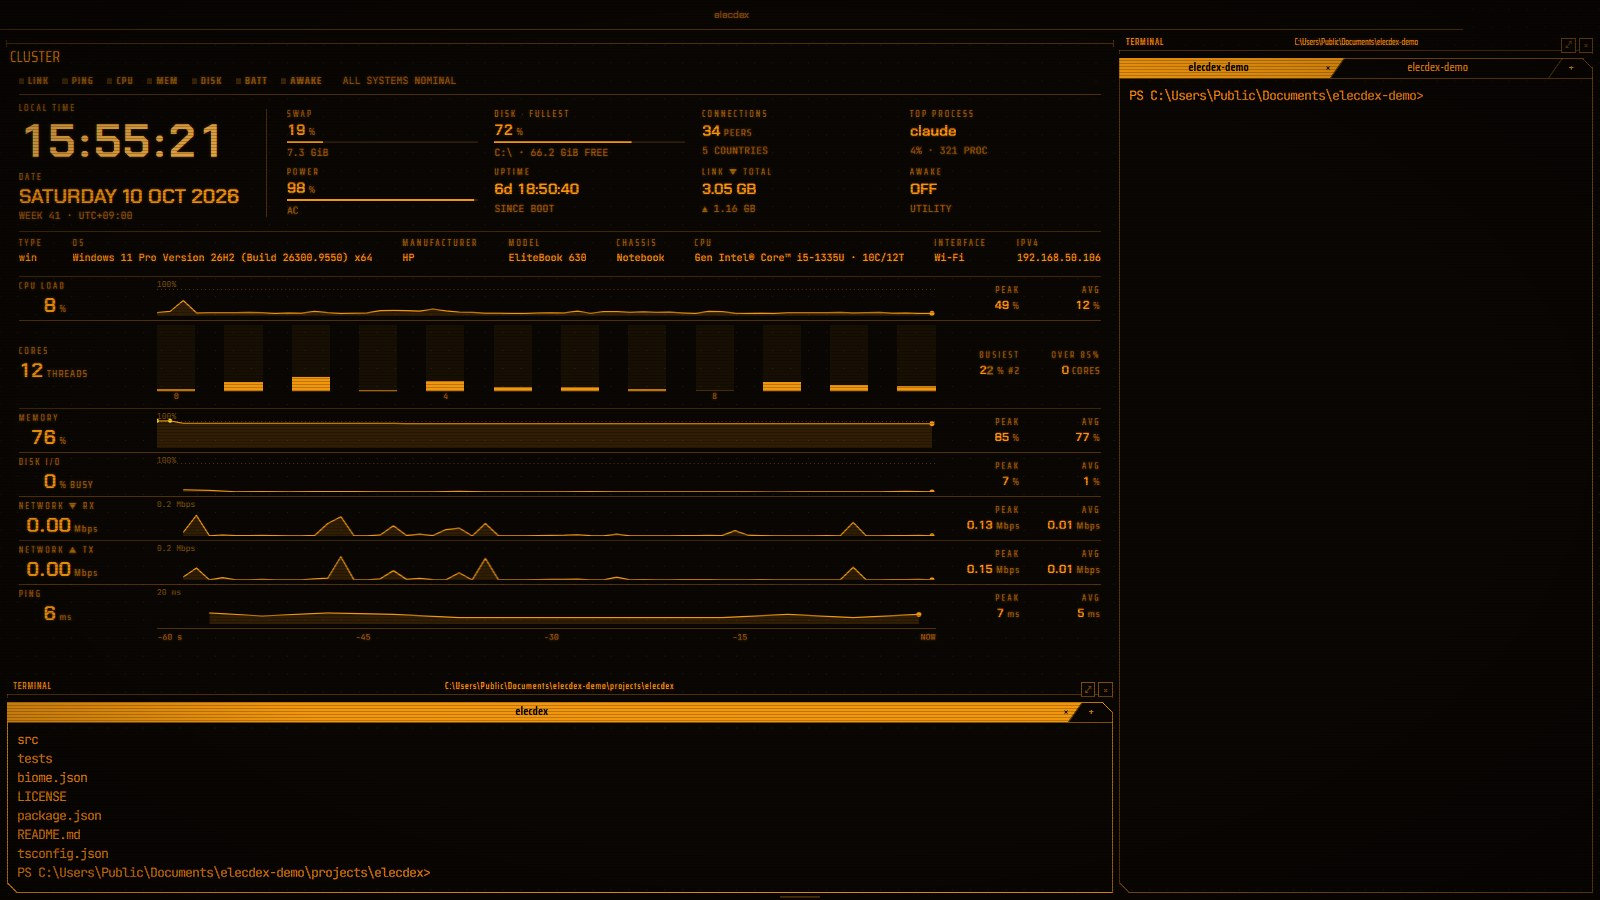
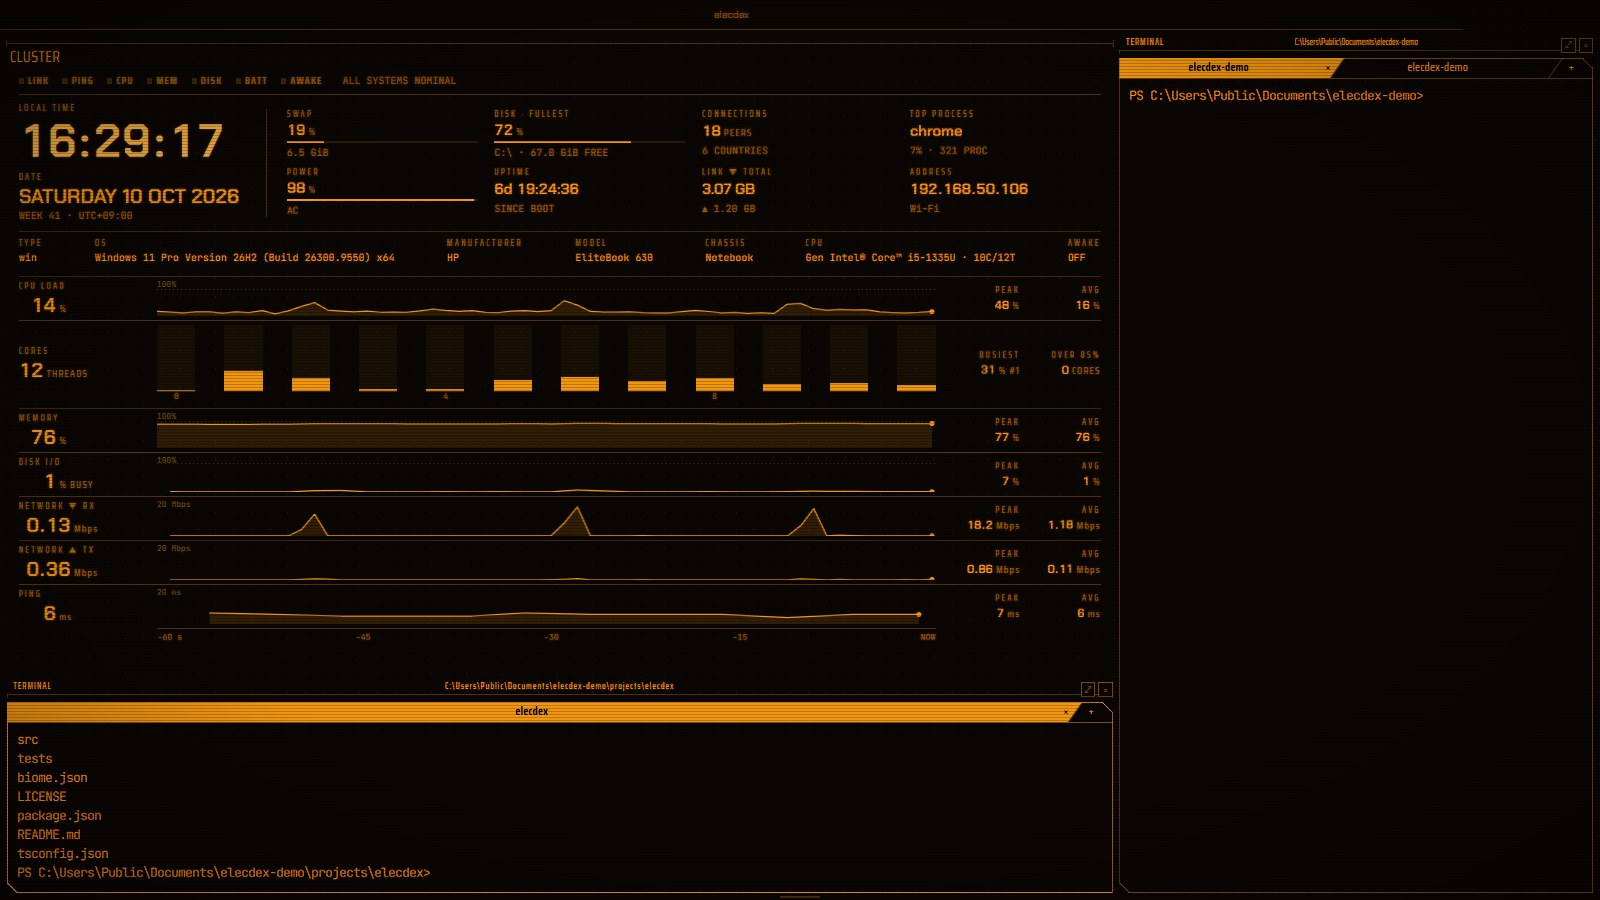
feat(cluster): the address among the readings, AWAKE on the spec line, softer hot colours / アドレスを値の列へ、AWAKE を仕様の行へ、超えたときの色を穏やかに
The slots are what the machine changes by itself, so the IPv4 address (with its interface, red when the link is down) takes AWAKE's place there; AWAKE, which the user sets, goes to the end of the spec line, which keeps what the machine is. Amber and red in the pane are the theme's warning and danger colours taken part of the way to its accent, so a hot reading stays in the pane's palette; the shape (dots on the line, the whole core bar) is unchanged. / スロットは機械が自分で変わる値なので、IPv4 アドレス（注記にインターフェース、リンクが落ちたら赤）を AWAKE の場所に。利用者が決める AWAKE は、機械が何かを並べる仕様の行の末尾へ。超えたときの黄と赤は、テーマの警告色と危険色をアクセントに少し寄せたものにして、ペインの色調から浮かないようにした。形（線の上の点、コアの棒全体）は変えない。

diff --git a/src/renderer/widgets/cluster/cluster-cards.ts b/src/renderer/widgets/cluster/cluster-cards.ts
@@ -34,7 +34,7 @@ export const CARD_KEYS = [
   'power',
   'uptime',
   'link',
-  'awake',
+  'address',
   'message',
   'spec',
 ] as const
@@ -64,7 +64,7 @@ export const CARD_TITLES: Readonly<Record<CardKey, string>> = {
   power: 'POWER',
   uptime: 'UPTIME',
   link: 'LINK',
-  awake: 'AWAKE',
+  address: 'ADDRESS',
   message: 'ALERTS',
   spec: 'THIS MACHINE',
 }
@@ -86,9 +86,9 @@ const SOURCES: Readonly<Record<CardKey, string>> = {
   power: 'power.battery · every 30 s',
   uptime: 'os.uptime',
   link: 'net.interface · net.throughput',
-  awake: 'the UTILITY pane',
+  address: 'net.interface',
   message: 'lamps lit for 10 s or more',
-  spec: 'os.info · hardware.system · cpu.info · net.interface',
+  spec: 'os.info · hardware.system · cpu.info · the UTILITY pane',
 }
 
 const row = (label: string, value: string, muted = false): CardRow =>
@@ -233,17 +233,24 @@ function linkRows(r: CardReadings): CardRow[] {
   ]
 }
 
-function awakeRows(r: CardReadings, time: (at: number) => string): CardRow[] {
-  const { level, until } = r.awake
-  if (level === 'off') return [row('HOLD', 'none: the machine may sleep')]
+function addressRows(r: CardReadings): CardRow[] {
   return [
-    row('HOLD', level === 'display' ? 'the machine and its display' : 'the machine'),
-    row('UNTIL', until === null ? 'turned off' : time(until)),
+    row('INTERFACE', r.link?.iface ?? '--'),
+    row('STATE', r.link?.state ?? '--'),
+    row('NOTE', 'this machine’s address on its own network', true),
   ]
 }
 
+/** AWAKE's hold, on the spec card: what it keeps awake, and until when. */
+function awakeRows(r: CardReadings, time: (at: number) => string): CardRow[] {
+  const { level, until } = r.awake
+  if (level === 'off') return [row('AWAKE', 'off: the machine may sleep')]
+  const what = level === 'display' ? 'the machine and its display' : 'the machine'
+  return [row('AWAKE', `${what}, until ${until === null ? 'turned off' : time(until)}`)]
+}
+
 /** The spec row in full, where its line cut a value short. */
-function specRows(r: CardReadings): CardRow[] {
+function specRows(r: CardReadings, time: (at: number) => string): CardRow[] {
   const hw = r.hardware
   const cpu = r.cpu
   return [
@@ -251,7 +258,7 @@ function specRows(r: CardReadings): CardRow[] {
     row('MACHINE', hw ? [hw.manufacturer, hw.model, hw.chassis].filter(Boolean).join(' · ') : '--'),
     row('CPU', cpu ? cpuName(cpu) : '--'),
     row('CORES', cpu ? `${cpu.physicalCores} cores, ${cpu.cores} threads` : '--'),
-    row('ADDRESS', r.link ? `${r.link.iface ?? '--'} · ${r.link.ip4 ?? '--.--.--.--'}` : '--'),
+    ...awakeRows(r, time),
   ]
 }
 
@@ -278,9 +285,9 @@ export function cardRows(key: CardKey, r: CardReadings, time: (at: number) => st
     power: () => powerRows(r),
     uptime: () => uptimeRows(r, time),
     link: () => linkRows(r),
-    awake: () => awakeRows(r, time),
+    address: () => addressRows(r),
     message: () => messageRows(r),
-    spec: () => specRows(r),
+    spec: () => specRows(r, time),
   }
   return [...rows[key](), row('FROM', SOURCES[key], true)]
 }

diff --git a/src/renderer/widgets/cluster/cluster-view.ts b/src/renderer/widgets/cluster/cluster-view.ts
@@ -189,7 +189,7 @@ export const SLOT_KEYS = [
   'power',
   'uptime',
   'link',
-  'awake',
+  'address',
 ] as const
 export type SlotKey = (typeof SLOT_KEYS)[number]
 
@@ -296,12 +296,13 @@ export function slotFigure(key: SlotKey, r: Readings): FigureView {
         : figure({ label: 'UPTIME', value: uptimeClock(r.uptime), note: 'SINCE BOOT' })
     case 'link':
       return linkFigure(r.net, r.link)
-    case 'awake':
+    case 'address':
+      // The address changes with the network, so it sits with the readings; the interface under it.
       return figure({
-        label: 'AWAKE',
-        value: AWAKE_WORDS[r.awake.level],
-        word: true,
-        note: 'UTILITY',
+        label: 'ADDRESS',
+        value: r.link?.ip4 ?? '--.--.--.--',
+        note: r.link?.iface ?? NONE,
+        level: r.link?.state === 'down' ? 'crit' : 'none',
       })
   }
 }
@@ -350,7 +351,7 @@ export function dateText(date: Date): { value: string; note: string } {
 /* ---- The spec row: what the machine is, as the standard layout's system column says it ---- */
 
 export interface SpecItem {
-  key: 'type' | 'os' | 'maker' | 'model' | 'chassis' | 'cpu' | 'iface' | 'ip'
+  key: 'type' | 'os' | 'maker' | 'model' | 'chassis' | 'cpu' | 'awake'
   label: string
   value: string
 }
@@ -367,10 +368,11 @@ export function cpuName(cpu: CpuInfo): string {
 
 /**
  * TYPE, OS, MANUFACTURER, MODEL and CHASSIS as the system pane words them, the CPU as the CPU
- * pane titles itself with its cores and threads, and the interface and IPv4 address as the
- * network status pane shows them. Never the host name (user decision 2026-10-10).
+ * pane titles itself with its cores and threads, and AWAKE: what the user set it to, not
+ * something it reads (the address went up among the readings, user decision 2026-10-10).
+ * Never the host name.
  */
-export function specItems(r: Pick<Readings, 'os' | 'hardware' | 'cpu' | 'link'>): SpecItem[] {
+export function specItems(r: Pick<Readings, 'os' | 'hardware' | 'cpu' | 'awake'>): SpecItem[] {
   const hw = r.hardware
   return [
     { key: 'type', label: 'TYPE', value: r.os ? osLabel(r.os.platform) : NONE },
@@ -387,7 +389,6 @@ export function specItems(r: Pick<Readings, 'os' | 'hardware' | 'cpu' | 'link'>)
       label: 'CPU',
       value: r.cpu ? `${cpuName(r.cpu)} · ${r.cpu.physicalCores}C/${r.cpu.cores}T` : NONE,
     },
-    { key: 'iface', label: 'INTERFACE', value: r.link?.iface ?? NONE },
-    { key: 'ip', label: 'IPV4', value: r.link?.ip4 ?? '--.--.--.--' },
+    { key: 'awake', label: 'AWAKE', value: AWAKE_WORDS[r.awake.level] },
   ]
 }

diff --git a/tests/unit/cluster-view.test.ts b/tests/unit/cluster-view.test.ts
@@ -35,7 +35,7 @@ const readings = (over: Partial<Readings> = {}): Readings => ({
   net: { iface: 'Ethernet', rxSec: 1_250_000, txSec: 125_000, rxTotal: 41.8e9, txTotal: 3.9e9 },
   io: { readSec: 2e6, writeSec: 1e6, busy: 7 },
   ping: { host: '1.1.1.1', ms: 14 },
-  link: { iface: 'Ethernet', ip4: null, mac: null, state: 'up' },
+  link: { iface: 'Ethernet', ip4: '192.168.0.12', mac: null, state: 'up' },
   swap: { total: 4e9, used: 1e9, available: 0, active: 0 },
   volumes: { volumes: [volume('C:\\', 300e9), volume('D:\\', 100e9)] },
   conns: { total: 81, unresolved: 2, countries: [{ code: 'JP', count: 41, lat: 0, lon: 0 }] },
@@ -124,7 +124,14 @@ describe('slots', () => {
     expect(slotFigure('conn', r)).toMatchObject({ value: '81', unit: 'PEERS', note: '1 COUNTRIES' })
     expect(slotFigure('link', r)).toMatchObject({ value: '41.80 GB', note: '▲ 3.90 GB' })
     expect(slotFigure('uptime', r)).toMatchObject({ value: '12d 04:33:07' })
-    expect(slotFigure('awake', r)).toMatchObject({ value: 'SYSTEM' })
+    // The address sits with the readings, the interface under it; red when the link is down.
+    expect(slotFigure('address', r)).toMatchObject({
+      value: '192.168.0.12',
+      note: 'Ethernet',
+      level: 'none',
+    })
+    const down = readings({ link: { iface: 'Wi-Fi', ip4: null, mac: null, state: 'down' } })
+    expect(slotFigure('address', down)).toMatchObject({ value: '--.--.--.--', level: 'crit' })
   })
 
   it('say AC without a battery, and the charge with one', () => {
@@ -159,8 +166,7 @@ describe('the spec row', () => {
       'MODEL',
       'CHASSIS',
       'CPU',
-      'INTERFACE',
-      'IPV4',
+      'AWAKE',
     ])
     const value = (key: string) => items.find((item) => item.key === key)?.value
     expect(value('type')).toBe('win')
@@ -182,9 +188,12 @@ describe('the spec row', () => {
   })
 
   it('shows dashes until the facts are read', () => {
-    const items = specItems({ os: null, hardware: null, cpu: null, link: null })
-    expect(items.find((item) => item.key === 'ip')?.value).toBe('--.--.--.--')
-    expect(items.every((item) => item.value.startsWith('--'))).toBe(true)
+    const items = specItems({ ...readings(), os: null, hardware: null, cpu: null })
+    expect(items.filter((item) => item.key !== 'awake').every((item) => item.value === '--')).toBe(
+      true,
+    )
+    // AWAKE is what the user set: never unknown.
+    expect(items.find((item) => item.key === 'awake')?.value).toBe('SYSTEM')
   })
 })
 

diff --git a/src/renderer/widgets/cluster/LaneChart.svelte b/src/renderer/widgets/cluster/LaneChart.svelte
@@ -10,6 +10,7 @@ import {
   laneScale,
   scaleLabel,
 } from '@shared/cluster'
+import { colourReader } from '../../lib/css-colour.ts'
 import { appearance } from '../../stores/appearance.svelte.ts'
 
 /**
@@ -45,15 +46,22 @@ interface Colors {
   labelSize: number
 }
 
-function readColors(el: Element): Colors {
+function readColors(el: HTMLElement): Colors {
   const style = getComputedStyle(el)
+  // The pane's amber and red are mixes (ClusterWidget's --cluster-warn, --cluster-crit), which
+  // only CSS resolves: read back as the colours a canvas can paint.
+  const mixed = colourReader(el)
+  const rgb = (css: string, fallback: string): string => {
+    const [r, g, b] = mixed(css, [0, 0, 0])
+    return r + g + b === 0 ? fallback : `rgb(${r} ${g} ${b})`
+  }
   const read = (name: string, fallback: string): string =>
     style.getPropertyValue(name).trim() || fallback
   const root = Number.parseFloat(getComputedStyle(document.documentElement).fontSize)
   return {
     line: read('--accent', '#aacfd1'),
-    warn: read('--warn', '#f0c040'),
-    crit: read('--danger', '#e05050'),
+    warn: rgb('var(--cluster-warn, var(--warn))', read('--warn', '#f0c040')),
+    crit: rgb('var(--cluster-crit, var(--danger))', read('--danger', '#e05050')),
     guide: read('--panel-rule', 'rgba(170,207,209,0.3)'),
     label: read('--text-muted', 'rgba(170,207,209,0.5)'),
     font: read('--font-mono', 'monospace'),

diff --git a/src/renderer/widgets/cluster/ClusterWidget.svelte b/src/renderer/widgets/cluster/ClusterWidget.svelte
@@ -326,7 +326,14 @@ const cardReadings = $derived.by(
 </div>
 
 <style>
+/*
+ * The pane's amber and red: the theme's warning and danger colours taken a part of the way
+ * towards its accent, so a hot reading stays in the pane's palette instead of a raw yellow or
+ * red laid over it (user's request 2026-10-10). The lamps keep the app's own.
+ */
 .cluster {
+  --cluster-warn: color-mix(in srgb, var(--warn) 70%, var(--accent));
+  --cluster-crit: color-mix(in srgb, var(--danger) 75%, var(--accent));
   position: relative;
   display: grid;
   grid-template-rows: auto minmax(0, 1fr) auto;

diff --git a/src/renderer/widgets/cluster/Figure.svelte b/src/renderer/widgets/cluster/Figure.svelte
@@ -200,20 +200,20 @@ b.fixed {
 
 [data-level='warn'] .label,
 [data-level='warn'] b {
-  color: var(--warn);
+  color: var(--cluster-warn, var(--warn));
 }
 
 [data-level='warn'] .meter i {
-  background: var(--warn);
+  background: var(--cluster-warn, var(--warn));
 }
 
 [data-level='crit'] .label,
 [data-level='crit'] b {
-  color: var(--danger);
+  color: var(--cluster-crit, var(--danger));
 }
 
 [data-level='crit'] .meter i {
-  background: var(--danger);
+  background: var(--cluster-crit, var(--danger));
 }
 
 [data-level='warn'] .label::before {

diff --git a/src/renderer/widgets/cluster/CoreBars.svelte b/src/renderer/widgets/cluster/CoreBars.svelte
@@ -69,11 +69,11 @@ const per = $derived(bars.length === 0 ? 1 : Math.ceil(cores.length / bars.lengt
 }
 
 .core[data-level='warn'] i {
-  background: var(--warn);
+  background: var(--cluster-warn, var(--warn));
 }
 
 .core[data-level='crit'] i {
-  background: var(--danger);
+  background: var(--cluster-crit, var(--danger));
 }
 
 em {

diff --git a/docs/cluster.md b/docs/cluster.md
@@ -28,6 +28,8 @@
 | 2026-10-10 | レーンとコアの棒はアニメーションしない。値が届いたら棒を 1 本足して描き直すだけ。右端の先頭の点もやめる | 利用者の指定（2 コマで詰める動きが変に見えた） |
 | 2026-10-10 | レーンは棒でなく塗りのある折れ線（CPU ペインと同じ描き方）。CPU・メモリ・ディスク I/O は 0〜100%、ネットワーク（RX と TX で共通）と PING は直近 1 分の最大に合わせた切りのよい目盛りで、上端をレーンに書く。対数目盛りはやめる | 利用者の指摘（PING とネットワークの棒が低すぎて見えない） |
 | 2026-10-10 | 時計・スロットとレーンのあいだに「仕様の行」を置く。standard のシステム列と network status と同じ TYPE・OS・MANUFACTURER・MODEL・CHASSIS・CPU（コアとスレッド）・INTERFACE・IPV4。ホスト名は出さない。wide は 1 行、medium は 4 列×2 行、narrow は最後に 2 列。高さが余るときだけ出し、段を下げない | 利用者の提案（cockpit ではシステム列が無く、機械が何かが見えない） |
+| 2026-10-10 | IP アドレスはスロットへ（ADDRESS、注記にインターフェース）、AWAKE は仕様の行へ。スロットは機械が自分で変わる値、仕様の行は機械が何かと利用者の設定 | 利用者の提案 |
+| 2026-10-10 | 超えたときの色は、テーマの警告・危険色をアクセントに少し寄せたもの（`--cluster-warn`・`--cluster-crit`、srgb で 7 割・7.5 割）。形（点と棒の色）は変えない。帯で示す案は退けた | 利用者の指摘（原色の黄・赤が野暮ったい。帯の案もだめ） |
 | 2026-10-10 | 既定のレイアウトには入れない。ピッカー（cluster dashboard）か cockpit プリセットから出す | 利用者の決定 |
 | 2026-10-10 | CPU 温度、CPU クロック、外気温、Docker・git の警告灯は入れない | 温度は Windows で常に null、クロックは Windows で実クロックで動かない見込み（未確認）、天気は地点の設定が要り、Docker と git は他ペインの領分 |
 
@@ -59,8 +61,8 @@
    - 右: 60 秒のピークと平均
 4. **コアの行**（余裕があるときだけ）: 論理コアごとの今の負荷を 1 本ずつ。4 本おきにコア番号。右に「いちばん忙しいコア」と「85% 以上のコアの数」。
 5. **時間軸**（wide だけ）: `−60 s · −45 · −30 · −15 · NOW`。
-6. **スロット**: SWAP、DISK（いちばん埋まっている固定ボリューム）、CONNECTIONS（PEERS）、TOP PROCESS、POWER、UPTIME、LINK ▼ TOTAL、AWAKE。
-7. **仕様の行**（時計・スロットの段とレーンのあいだ。narrow では最後）: TYPE・OS・MANUFACTURER・MODEL・CHASSIS・CPU・INTERFACE・IPV4。値は動かないので一段控えめに描く。切れた値はカードで全部見せる。読むのは `os.info`・`hardware.system`・`cpu.info`（起動中に 1 回だけ集めるソース）と `net.interface`。ホスト名は出さない
+6. **スロット**: SWAP、DISK（いちばん埋まっている固定ボリューム）、CONNECTIONS（PEERS）、TOP PROCESS、POWER、UPTIME、LINK ▼ TOTAL、ADDRESS（IPv4、注記にインターフェース）。
+7. **仕様の行**（時計・スロットの段とレーンのあいだ。narrow では最後）: TYPE・OS・MANUFACTURER・MODEL・CHASSIS・CPU・AWAKE（利用者の設定）。値は動かないので一段控えめに描く。切れた値はカードで全部見せる。読むのは `os.info`・`hardware.system`・`cpu.info`（起動中に 1 回だけ集めるソース）と `net.interface`。ホスト名は出さない
 
 ### 2.1 段（tier）
 

diff --git a/README.zh-CN.md b/README.zh-CN.md
@@ -196,7 +196,7 @@ elecdex 启动时的默认布局，即页首那张图（Tron）。
 ### cockpit — 整台机器放进一个面板，再加上 shell
 
 <p align="center">
-  <img src="./docs/screenshots/elecdex-cockpit.jpg" alt="Amber 主题下的 cockpit 预设：左上方以 CLUSTER 面板取代系统栏——一排警示灯和 ALL SYSTEMS NOMINAL，日期上方的时钟，旁边是交换区、最满的磁盘、连接对象数、最忙的程序、电源、运行时间、链路累计流量和 AWAKE，其下一行是类型、操作系统、制造商、型号、机箱、CPU、网络接口和地址；再下面是 CPU 最近一分钟的折线、十二个核心各一根柱，以及内存、磁盘 I/O、网络下行与上行和 PING 的折线及其峰值与平均值；其下是一个 shell，右侧是作为标签页的两个 shell">
+  <img src="./docs/screenshots/elecdex-cockpit.jpg" alt="Amber 主题下的 cockpit 预设：左上方以 CLUSTER 面板取代系统栏——一排警示灯和 ALL SYSTEMS NOMINAL，日期上方的时钟，旁边是交换区、最满的磁盘、连接对象数、最忙的程序、电源、运行时间、链路累计流量和地址，其下一行是类型、操作系统、制造商、型号、机箱、CPU 和 AWAKE；再下面是 CPU 最近一分钟的折线、十二个核心各一根柱，以及内存、磁盘 I/O、网络下行与上行和 PING 的折线及其峰值与平均值；其下是一个 shell，右侧是作为标签页的两个 shell">
   <br><sub>cockpit · Amber</sub>
 </p>
 
@@ -434,8 +434,8 @@ Ctrl 拖到组上；或者聚焦组中的某个窗格，打开选择器（Ctrl+S
   亮起；旁边的消息行用文字说出最严重的一项，并说明还有几项。其下是时钟和日期。接着是 CPU、内存、磁盘 I/O、
   网络下行与上行和 PING 六条通道，用折线显示最近一分钟，并附峰值与平均值；每到一个数值就接着画下去。
   CPU、内存和磁盘为 0–100%，网络（上下行共用一个刻度）和 PING 按最近一分钟缩放，刻度上限写在通道里。有空间时，CPU 下方会显示每个核心当前的负载。其余是一排数值：交换区、
-  最满的磁盘、连接对象数、最忙的程序、电源、运行时间、链路累计流量和 AWAKE；有空间时，还会以系统栏同样的说法
-  用一行列出机器的规格（类型、操作系统、制造商、型号、机箱、CPU、网络接口和 IPv4 地址）。每个数值都能打开详情卡片，显示
+  最满的磁盘、连接对象数、最忙的程序、电源、运行时间、链路累计流量和 IPv4 地址（及网络接口）；有空间时，还会以系统栏同样的说法
+  用一行列出机器的规格（类型、操作系统、制造商、型号、机箱、CPU）和 AWAKE 的设置。每个数值都能打开详情卡片，显示
   行里放不下的内容。它会按大小以五种方式排布。全屏时空闲约占单核的 10–15%，比并排放置 CPU、内存、流量和磁盘
   面板更省。
 - **启动器** — 平台的应用加上你自己的条目，最常用的在前。输入即可筛选，Enter 启动。图标采用

diff --git a/README.md b/README.md
@@ -215,7 +215,7 @@ The arrangement elecdex opens with, in the picture at the top (Tron).
 ### cockpit — the whole machine on one pane, and the shells
 
 <p align="center">
-  <img src="./docs/screenshots/elecdex-cockpit.jpg" alt="The cockpit preset in the Amber theme: the CLUSTER pane in the top left in place of the system column - the lamps in a row with ALL SYSTEMS NOMINAL, the clock over the date, swap, the fullest disk, connections, the busiest program, power, uptime, the link's total and AWAKE beside them, a line of the type, OS, maker, model, chassis, CPU, interface and address, then a minute of CPU as a line, a bar for each of twelve cores, memory, disk I/O, network down and up and ping as lines with their peaks and averages - a shell under it and two shells as tabs on the right">
+  <img src="./docs/screenshots/elecdex-cockpit.jpg" alt="The cockpit preset in the Amber theme: the CLUSTER pane in the top left in place of the system column - the lamps in a row with ALL SYSTEMS NOMINAL, the clock over the date, swap, the fullest disk, connections, the busiest program, power, uptime, the link's total and the address beside them, a line of the type, OS, maker, model, chassis, CPU and AWAKE, then a minute of CPU as a line, a bar for each of twelve cores, memory, disk I/O, network down and up and ping as lines with their peaks and averages - a shell under it and two shells as tabs on the right">
   <br><sub>cockpit · Amber</sub>
 </p>
 
@@ -493,8 +493,8 @@ weather and calendar.
   both ways) and the ping scaled to the minute, the top written in the lane. Where there is room,
   every core's load now sits under CPU. The rest is a row of figures:
   swap, the fullest disk, connections, the busiest program, power, uptime, the link's total and
-  AWAKE; and where there is room a line of what the machine is, as the system column says it (type,
-  OS, maker, model, chassis, CPU, interface and IPv4 address). Each figure opens a card with what it has no room for. It lays itself out in five ways by
+  the IPv4 address with its interface; and where there is room a line of what the machine is, as the
+  system column says it (type, OS, maker, model, chassis and CPU), with what AWAKE is set to. Each figure opens a card with what it has no room for. It lays itself out in five ways by
   its size. A full screen of it idles at 10-15% of one core, less than CPU, memory, traffic and
   disk panes side by side.
 - **Launcher** — the platform's applications plus your own entries, most used first. Type to
